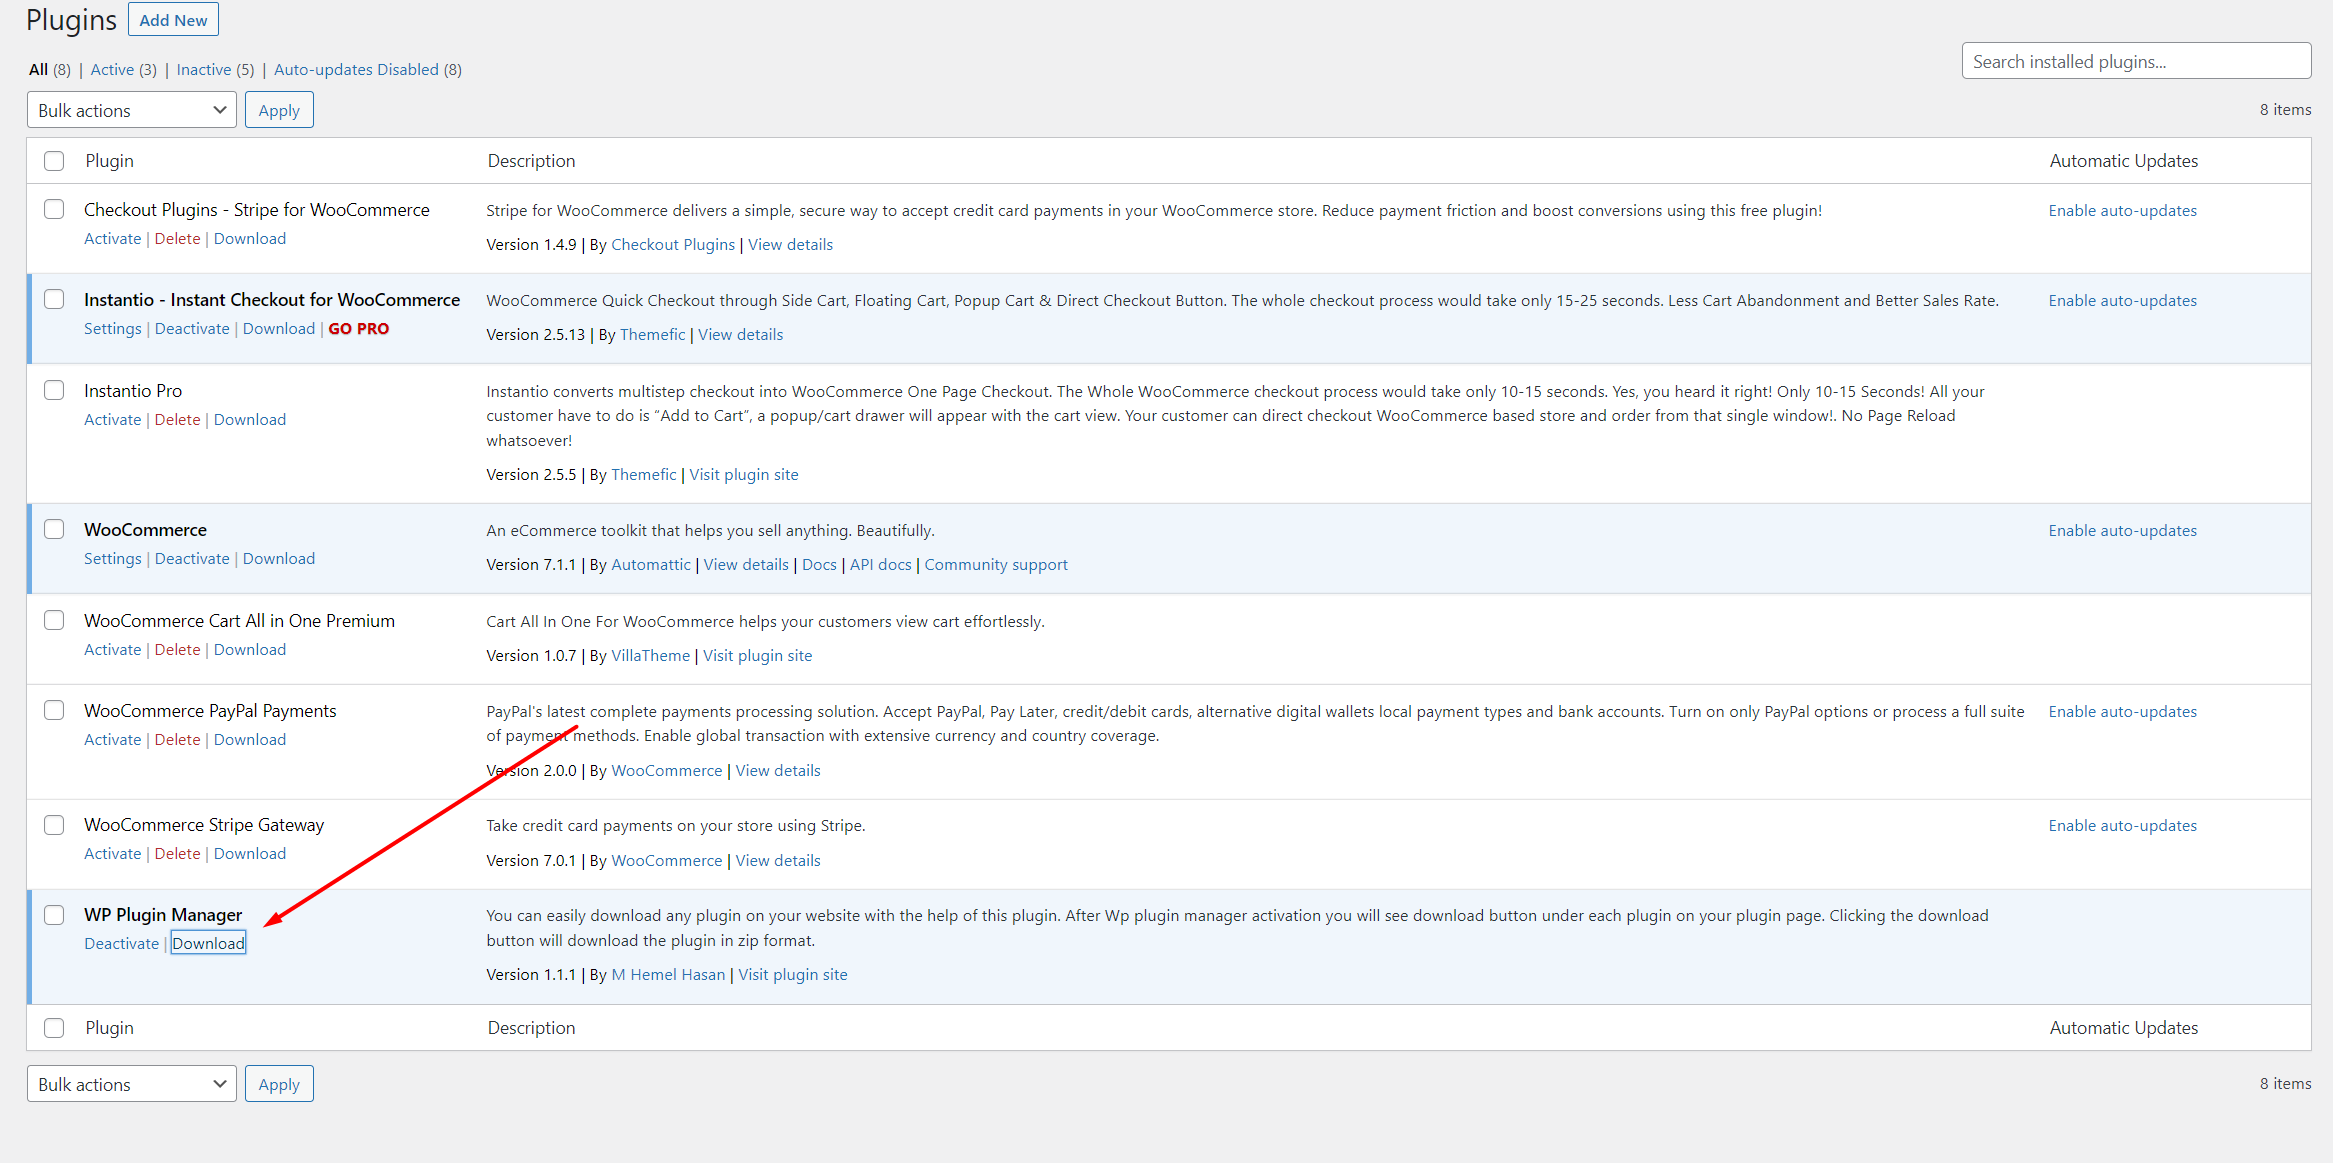
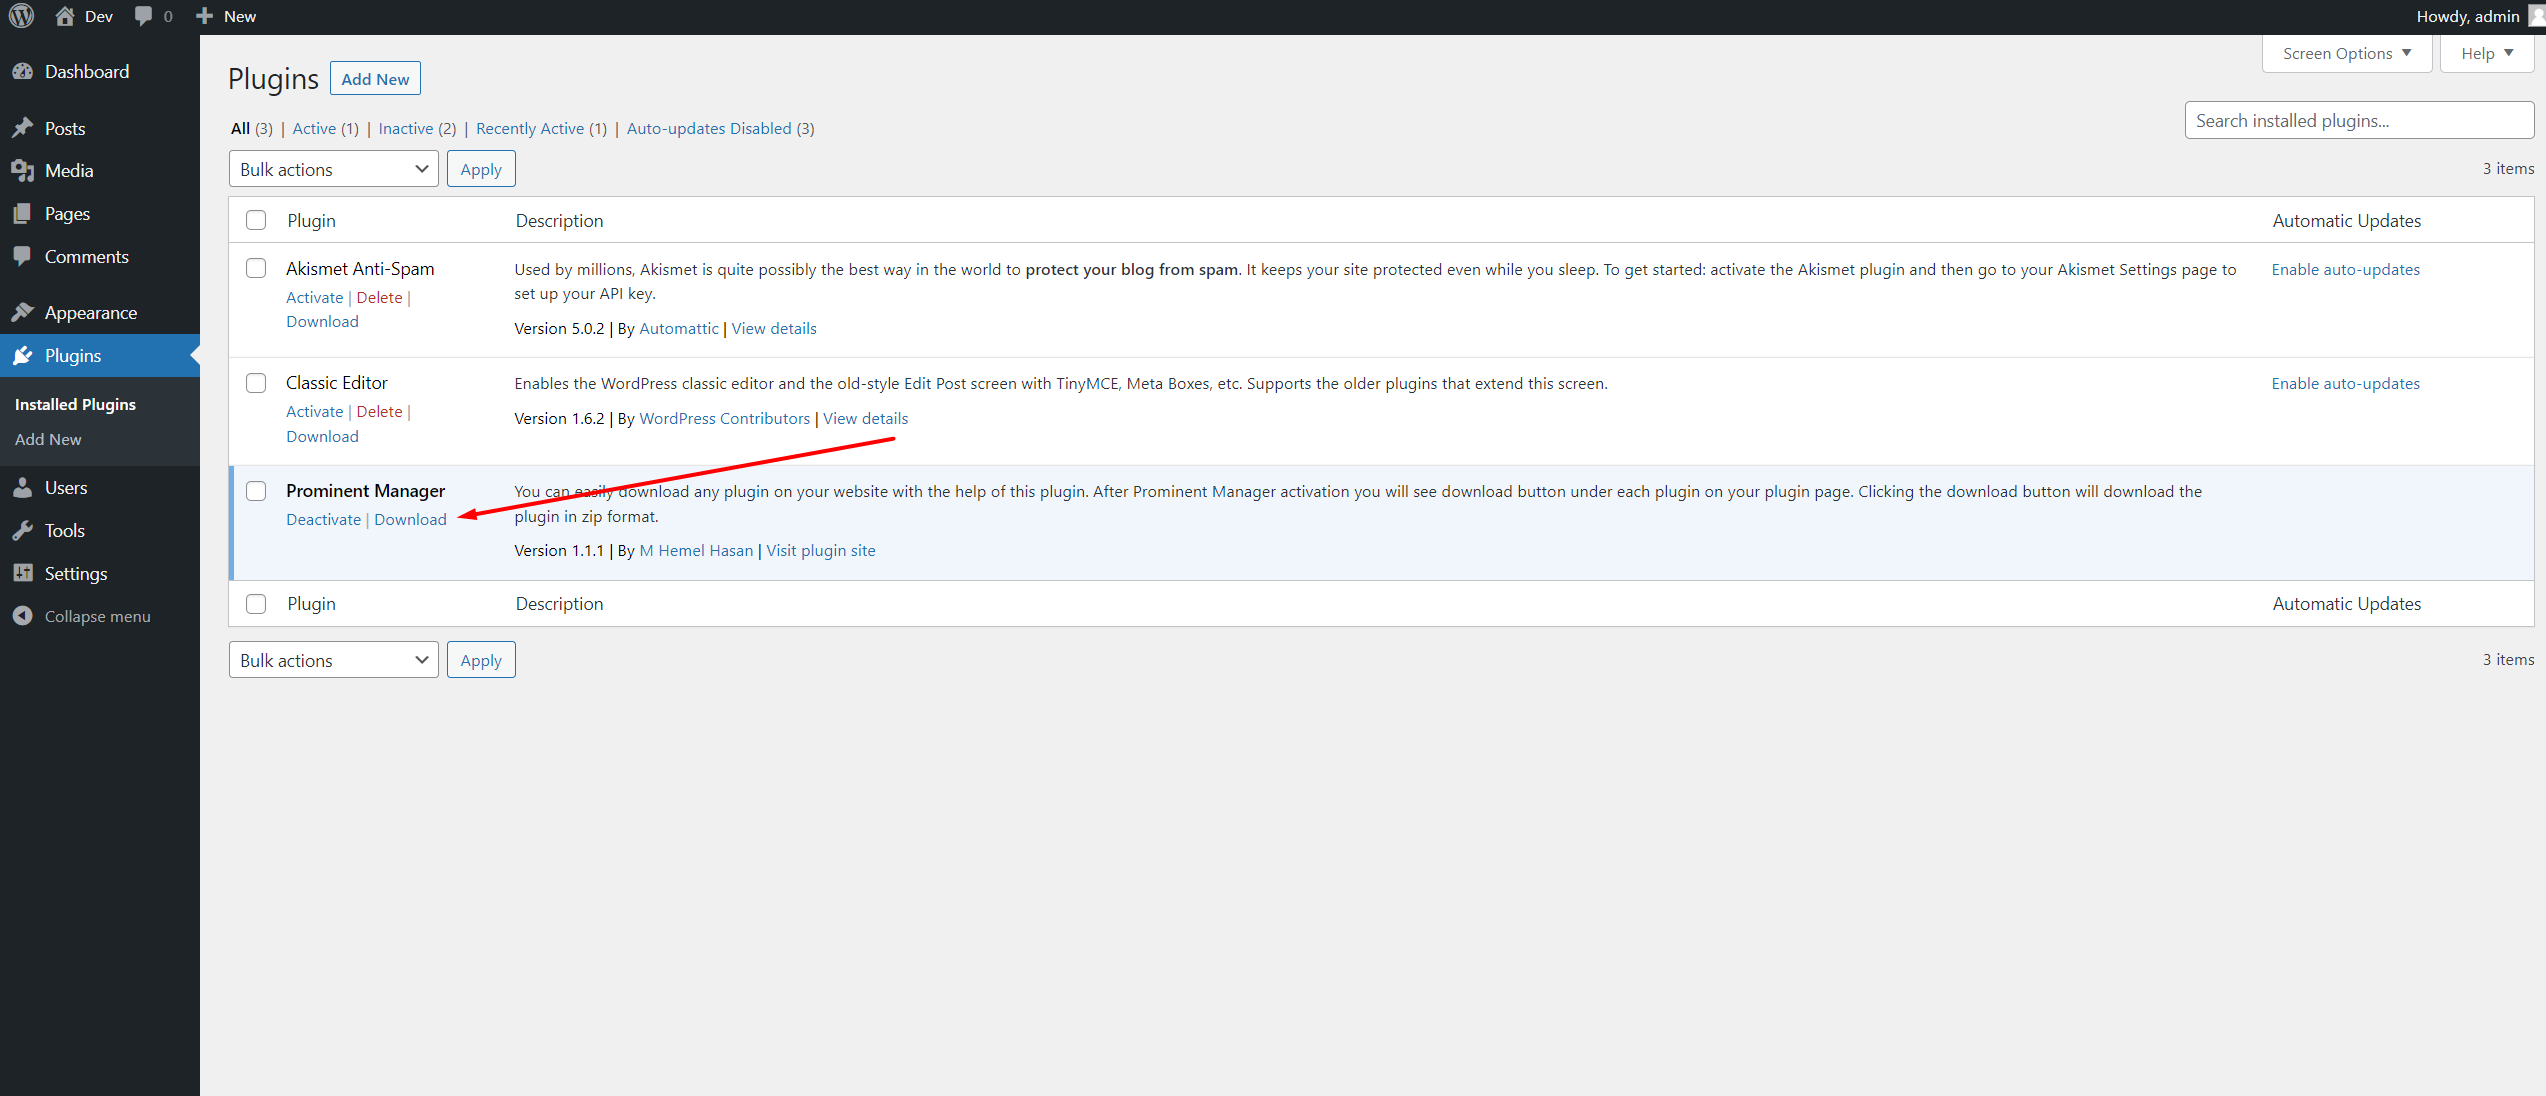
Prominent Manager Version 1.1.1

diff --git a/prominent.php b/prominent.php
@@ -1,7 +1,7 @@
 <?php
 /**
- * Plugin Name: WP Plugin Manager
- * Description: You can easily download any plugin on your website with the help of this plugin. After Wp plugin manager activation you will see download button under each plugin on your plugin page. Clicking the download button will download the plugin in zip format.
+ * Plugin Name: Prominent Manager 
+ * Description: You can easily download any plugin on your website with the help of this plugin. After Prominent Manager activation you will see download button under each plugin on your plugin page. Clicking the download button will download the plugin in zip format.
  * Plugin URI: https://mhemelhasan.com/WpD
  * Author: M Hemel Hasan
  * Author URI: https://mhemelhasan.com
@@ -9,7 +9,7 @@
  * Text Domain: wp-manager
  * License: GPL3 
  * License URI: https://www.gnu.org/licenses/gpl-3.0.html
- * Tags: Plugin download, wp plugin download, Plugin downloader, wp plugin downloader, wp plugin manager
+ * Tags: plugin download, wp plugin download, plugin downloader, wp plugin downloader, wp plugin manager
  * Tested up to: 6.1.1
  * Requires PHP: 7.2
  *              
@@ -23,6 +23,7 @@ if ( ! defined( 'ABSPATH' ) ) {
 }
 
 
+
 /** 
  * Auto Loader from PSR4
  */
@@ -31,7 +32,7 @@ require_once __DIR__ . '/vendor/autoload.php';
 /**
  * The main plugin class
  */
-final class wp_manager {
+final class pm_prominent {
 
     /**
      * Plugin version
@@ -54,7 +55,7 @@ final class wp_manager {
     /**
      * Initializes a singleton instance
      *
-     * @return \wp_manager
+     * @return \pm_prominent
      */
     public static function init() {
         static $instance = false;
@@ -72,11 +73,11 @@ final class wp_manager {
      * @return void
      */
     public function define_constants() {
-        define( 'WP_MANAGER_VERSION', self::version );
-        define( 'WP_MANAGER_FILE', __FILE__ );
-        define( 'WP_MANAGER_PATH', __DIR__ );
-        define( 'WP_MANAGER_URL', plugins_url( '', WP_MANAGER_FILE ) );
-        define( 'WP_MANAGER_ASSETS', WP_MANAGER_URL . '/assets' );
+        define( 'PM_PROMINENT_VERSION', self::version );
+        define( 'PM_PROMINENT_FILE', __FILE__ );
+        define( 'PM_PROMINENT_PATH', __DIR__ );
+        define( 'PM_PROMINENT_URL', plugins_url( '', PM_PROMINENT_FILE ) );
+        define( 'PM_PROMINENT_ASSETS', PM_PROMINENT_URL . '/assets' );
     }
 
     /**
@@ -86,12 +87,12 @@ final class wp_manager {
      */
     public function init_plugin() {
 
-        new WPD\Downloads\Assets();
+        new PM\ProminentManager\Assets();
 
         if ( is_admin() ) {
-            new WPD\Downloads\Admin();
+            new PM\ProminentManager\Admin();
         } else {
-            new WPD\Downloads\Frontend();
+            new PM\ProminentManager\Frontend();
             
         }
 
@@ -103,13 +104,13 @@ final class wp_manager {
      * @return void
      */
     public function activate() {
-        $installed = get_option( 'wp_manager_installed' );
+        $installed = get_option( 'pm_prominent_installed' );
 
         if ( ! $installed ) {
-            update_option( 'wp_manager_installed', time() );
+            update_option( 'pm_prominent_installed', time() );
         }
 
-        update_option( 'wp_manager_version', WP_MANAGER_VERSION);
+        update_option( 'pm_prominent_version', PM_PROMINENT_VERSION);
     }
 
 }
@@ -117,11 +118,11 @@ final class wp_manager {
     /**
      * Initializes the main plugin
      *
-     * @return \wp_manager
+     * @return \pm_prominent
      */
-    function wp_manager() {
-        return wp_manager::init();
+    function pm_prominent() {
+        return pm_prominent::init();
     }
 
 // kick-off the plugin
-wp_manager();
+pm_prominent();

diff --git a/includes/Admin/ProminentManagerdownload.php b/includes/Admin/ProminentManagerdownload.php
@@ -1,24 +1,26 @@
 <?php
 
-namespace WPD\Downloads\Admin;
+namespace PM\ProminentManager\Admin;
 
 /**
  * Download handler class
  */
 
-//  require_once 'Pclzip.php';
+
+// Zip Functionality
+require_once 'Pclzip.php';
 
 
-class WPPLdownload {
+class ProminentManagerdownload {
     
     /**
      * Initialize the class
      */
     function __construct() {
-        // Check, if there is a 'wppm' Get param, and there is a proper nonce set
-        if(isset($_GET['wppm']) && wp_verify_nonce($_GET['_wpnonce'], 'wppl-download')){
+        // Check, if there is a 'pmpd' Get param, and there is a proper nonce set
+        if(isset($_GET['pmpd']) && wp_verify_nonce($_GET['_wpnonce'], 'pmpd-download')){
             // perform downloading
-            $this->wp_manager_download();
+            $this->prominent_managerpl_download();
         }
 
         add_filter('plugin_action_links', [$this, 'wp_plugin_download_links'], 10, 4);
@@ -35,9 +37,9 @@ class WPPLdownload {
         else
             $what = 'plugin';
 
-        $dowload_query = build_query(array('wppm' => $what, 'object' => $file));
+        $dowload_query = build_query(array('pmpd' => $what, 'object' => $file));
         $download_link = sprintf('<a href="%s">%s</a>',
-            wp_nonce_url(admin_url('?' . $dowload_query), 'wppl-download'),
+            wp_nonce_url(admin_url('?' . $dowload_query), 'pmpd-download'),
             __('Download')
         );
             
@@ -50,11 +52,11 @@ class WPPLdownload {
      *
      * @return Plugin zip folder
      */
-    public function wp_manager_download(){
+    public function prominent_managerpl_download(){
         // Kind of object we download (theme or plugin)
-        $what = $_GET['wppm'];
+        $what = sanitize_text_field($_GET['pmpd']);
         // The name of object
-        $object = $_GET['object'];
+        $object = sanitize_text_field($_GET['object']);
     
         // Prepare object name and root path for given object type
         switch($what){

diff --git a/includes/Assets.php b/includes/Assets.php
@@ -1,6 +1,6 @@
 <?php
 
-namespace WPD\Downloads;
+namespace PM\ProminentManager;
 
 /**
  * Assets handlers class
@@ -23,8 +23,8 @@ class Assets {
     public function get_scripts() {
         return [
             'wp-manager-script' => [
-                'src'     => WP_MANAGER_ASSETS . '/js/frontend.js',
-                'version' => filemtime( WP_MANAGER_PATH . '/assets/js/frontend.js' ),
+                'src'     => PM_PROMINENT_ASSETS . '/js/frontend.js',
+                'version' => filemtime( PM_PROMINENT_PATH . '/assets/js/frontend.js' ),
                 'deps'    => [ 'jquery' ]
             ]
         ];
@@ -38,8 +38,8 @@ class Assets {
     public function get_styles() {
         return [
             'wp-manager-style' => [
-                'src'     => WP_MANAGER_ASSETS . '/css/frontend.css',
-                'version' => filemtime( WP_MANAGER_PATH . '/assets/css/frontend.css' )
+                'src'     => PM_PROMINENT_ASSETS . '/css/frontend.css',
+                'version' => filemtime( PM_PROMINENT_PATH . '/assets/css/frontend.css' )
             ]
             
         ];

diff --git a/vendor/autoload.php b/vendor/autoload.php
@@ -3,8 +3,21 @@
 // autoload.php @generated by Composer
 
 if (PHP_VERSION_ID < 50600) {
-    echo 'Composer 2.3.0 dropped support for autoloading on PHP <5.6 and you are running '.PHP_VERSION.', please upgrade PHP or use Composer 2.2 LTS via "composer self-update --2.2". Aborting.'.PHP_EOL;
-    exit(1);
+    if (!headers_sent()) {
+        header('HTTP/1.1 500 Internal Server Error');
+    }
+    $err = 'Composer 2.3.0 dropped support for autoloading on PHP <5.6 and you are running '.PHP_VERSION.', please upgrade PHP or use Composer 2.2 LTS via "composer self-update --2.2". Aborting.'.PHP_EOL;
+    if (!ini_get('display_errors')) {
+        if (PHP_SAPI === 'cli' || PHP_SAPI === 'phpdbg') {
+            fwrite(STDERR, $err);
+        } elseif (!headers_sent()) {
+            echo $err;
+        }
+    }
+    trigger_error(
+        $err,
+        E_USER_ERROR
+    );
 }
 
 require_once __DIR__ . '/composer/autoload_real.php';

diff --git a/vendor/composer/installed.php b/vendor/composer/installed.php
@@ -3,7 +3,7 @@
         'name' => 'mhemelhasan/wedevs-academy',
         'pretty_version' => 'dev-master',
         'version' => 'dev-master',
-        'reference' => 'e951913e422b18a4ce5160da22f0acf68d416790',
+        'reference' => '3415db1dd82224534204b9c47c0298aa050d387f',
         'type' => 'wordpress-plugin',
         'install_path' => __DIR__ . '/../../',
         'aliases' => array(),
@@ -13,7 +13,7 @@
         'mhemelhasan/wedevs-academy' => array(
             'pretty_version' => 'dev-master',
             'version' => 'dev-master',
-            'reference' => 'e951913e422b18a4ce5160da22f0acf68d416790',
+            'reference' => '3415db1dd82224534204b9c47c0298aa050d387f',
             'type' => 'wordpress-plugin',
             'install_path' => __DIR__ . '/../../',
             'aliases' => array(),

diff --git a/vendor/composer/autoload_static.php b/vendor/composer/autoload_static.php
@@ -7,14 +7,14 @@ namespace Composer\Autoload;
 class ComposerStaticInit6a789dc2784aede1694fa02772b6e058
 {
     public static $prefixLengthsPsr4 = array (
-        'W' => 
+        'P' => 
         array (
-            'WPD\\Downloads\\' => 14,
+            'PM\\ProminentManager\\' => 20,
         ),
     );
 
     public static $prefixDirsPsr4 = array (
-        'WPD\\Downloads\\' => 
+        'PM\\ProminentManager\\' => 
         array (
             0 => __DIR__ . '/../..' . '/includes',
         ),

diff --git a/includes/Admin.php b/includes/Admin.php
@@ -1,6 +1,6 @@
 <?php
 
-namespace WPD\Downloads;
+namespace PM\ProminentManager;
 
 /**
  * The admin class
@@ -12,9 +12,9 @@ class Admin {
      */
     function __construct() {
         //Showing All Plugin that are active now
-        // new Admin\WPMenu();
+        // new Admin\PMMenu();
 
         //Showing Download button and manage download function
-        new Admin\WPPLdownload();
+        new Admin\ProminentManagerdownload();
     }
 }

diff --git a/includes/Admin/Pclzip.php b/includes/Admin/Pclzip.php
@@ -25,7 +25,7 @@
 // $Id: pclzip.lib.php,v 1.60 2009/09/30 21:01:04 vblavet Exp $
 // --------------------------------------------------------------------------------
 
-namespace WPD\Downloads\Admin;
+namespace PM\ProminentManager\Admin;
 
   // ----- Constants
   if (!defined('PCLZIP_READ_BLOCK_SIZE')) {

diff --git a/vendor/composer/autoload_psr4.php b/vendor/composer/autoload_psr4.php
@@ -6,5 +6,5 @@ $vendorDir = dirname(__DIR__);
 $baseDir = dirname($vendorDir);
 
 return array(
-    'WPD\\Downloads\\' => array($baseDir . '/includes'),
+    'PM\\ProminentManager\\' => array($baseDir . '/includes'),
 );

diff --git a/includes/Admin/PMMenu.php b/includes/Admin/PMMenu.php
@@ -1,12 +1,12 @@
 <?php
 
-namespace WPD\Downloads\Admin;
+namespace PM\ProminentManager\Admin;
 
 /**
  * Menu handler class
  */
 
- class WPMenu {
+ class PMMenu {
 
 
     /**

diff --git a/includes/Frontend.php b/includes/Frontend.php
@@ -1,6 +1,6 @@
 <?php
 
-namespace WPD\Downloads;
+namespace PM\ProminentManager;
 
 /**
  * Frontend handler class
